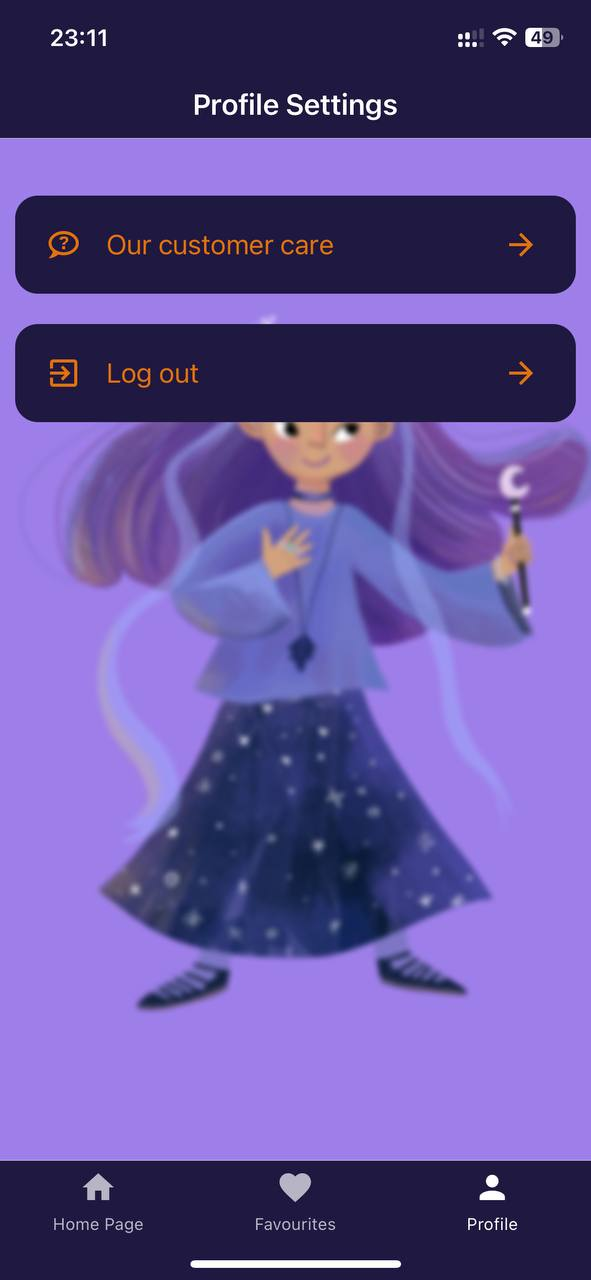
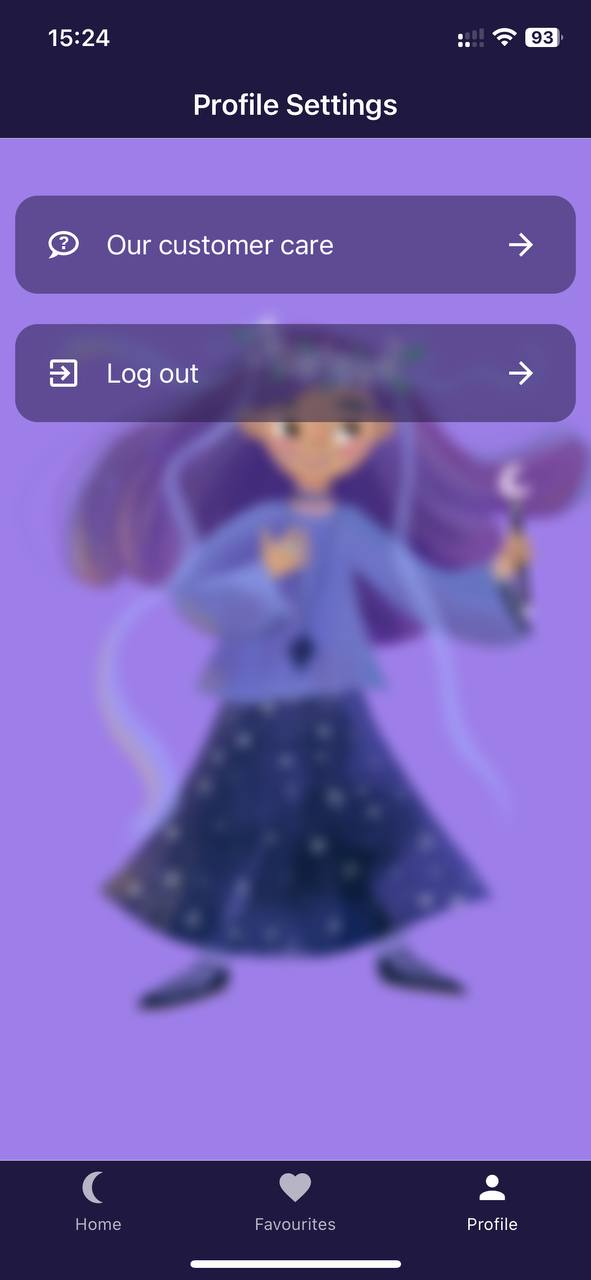
Replace assets according to new design, remove from BadgeUI third-party component

diff --git a/components/ui/Badge.js b/components/ui/Badge.js
@@ -1,22 +1,28 @@
-import { StyleSheet } from "react-native";
-import { useTheme, Badge } from "react-native-paper";
+import { StyleSheet, View } from "react-native";
+import { useTheme, Text } from "react-native-paper";
+import { LinearGradient } from "expo-linear-gradient";
 
 function BadgeUI({ children, size = 30 }) {
 	const theme = useTheme();
 	return (
-		<Badge
-			visible
-			size={size}
-			style={[
-				styles.badge,
-				{
-					backgroundColor: theme.colors.primary,
-					color: theme.colors.secondary,
-				},
-			]}
+		<LinearGradient
+			colors={["#1F1840", "#1856DB", "#06090F"]}
+			style={styles.gradientContainer}
+			start={{ x: 0, y: 0 }} // Start point (top-left)
+			end={{ x: 1, y: 0 }} // End point (top-right)
 		>
-			{children}
-		</Badge>
+			<View style={[styles.badge, { height: size }]}>
+				<Text
+					numberOfLines={1}
+					ellipsizeMode="tail"
+					style={{
+						color: theme.colors.fontColor,
+					}}
+				>
+					{children}
+				</Text>
+			</View>
+		</LinearGradient>
 	);
 }
 
@@ -27,5 +33,12 @@ const styles = StyleSheet.create({
 		paddingLeft: 20,
 		paddingRight: 20,
 		alignSelf: "left",
+		alignItems: "center",
+		justifyContent: "center",
+	},
+	gradientContainer: {
+		alignSelf: "flex-start",
+		borderRadius: 15,
+		alignItems: "center",
 	},
 });

diff --git a/components/Account/SettingItem.js b/components/Account/SettingItem.js
@@ -8,15 +8,20 @@ function SettingItem({ title, pressHandler, icon }) {
 		<List.Item
 			title={title}
 			onPress={pressHandler}
-			left={() => <List.Icon color={theme.colors.secondary} icon={icon} />}
+			left={() => (
+				<List.Icon color={theme.colors.settingItemTextColor} icon={icon} />
+			)}
 			right={() => (
-				<List.Icon color={theme.colors.secondary} icon="arrow-right" />
+				<List.Icon
+					color={theme.colors.settingItemTextColor}
+					icon="arrow-right"
+				/>
 			)}
 			style={[
 				styles.settingItemBox,
 				{ backgroundColor: theme.colors.settingItemColor },
 			]}
-			titleStyle={[styles.title, { color: theme.colors.secondary }]}
+			titleStyle={[styles.title, { color: theme.colors.settingItemTextColor }]}
 		/>
 	);
 }

diff --git a/components/Tales/TaleItem.js b/components/Tales/TaleItem.js
@@ -44,7 +44,6 @@ function TaleItem({ title, imageUrl, id }) {
 				{isFetching && <Loading />}
 				{imgUri && (
 					<Image
-						resizeMode="stretch"
 						source={{ uri: imgUri }}
 						style={styles.image}
 						onLoadStart={() => setIsFetching(true)}

diff --git a/components/ui/Player.js b/components/ui/Player.js
@@ -132,7 +132,6 @@ function Player({
 						style={styles.image}
 						onLoadStart={() => setIsFetching(true)}
 						onLoadEnd={() => setIsFetching(false)}
-						resizeMode="stretch"
 					/>
 				)}
 				{error && !isFetching && (

diff --git a/App.js b/App.js
@@ -219,6 +219,7 @@ const theme = {
 
 		// settings
 		settingItemColor: "rgba(31, 24, 64, 0.5)",
+		settingItemTextColor: "#FFFFFF",
 	},
 };
 
